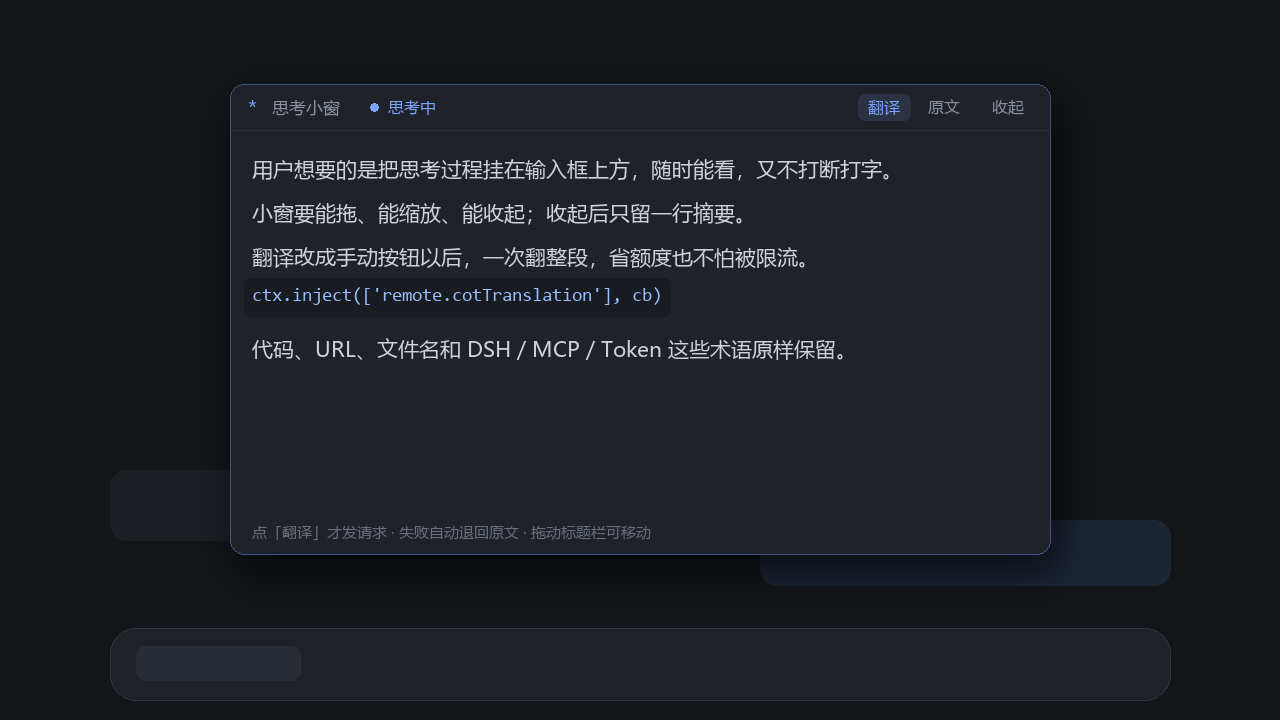
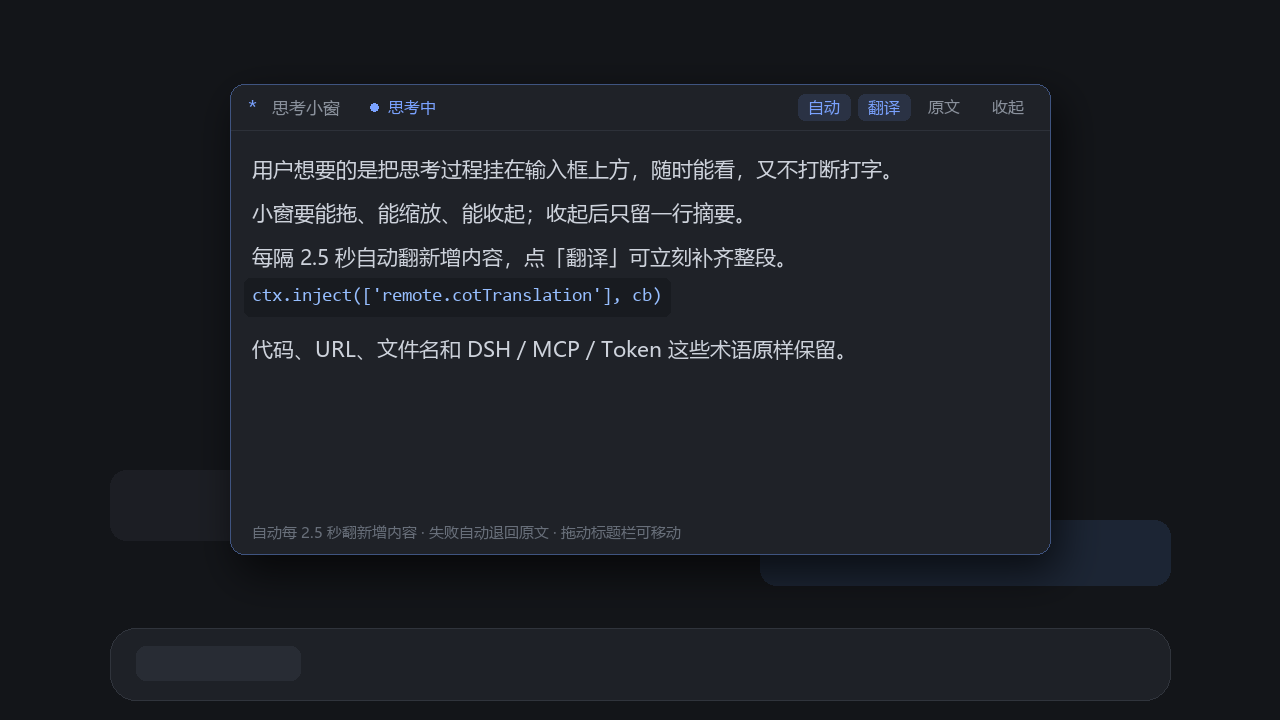
feat: 自动增量翻译（每 2.5 秒）+「自动」开关
- 默认开启：每 2.5 秒检查思考是否变长，只送新增的已完结句子，整段不重翻
- 标题栏「自动」按钮可开关，状态存 localStorage
- 手动「翻译」仍保留：点一下立刻补齐整段（含未写完的尾巴）
- 示意图更新为带「自动」按钮的版本
- 版本号 0.2.2（npm 待发；market.json 仍指向已发布的 0.2.1）

Changed region(s): [[0.1875, 0.3361, 0.625, 0.3972], [0.1875, 0.7333, 0.5312, 0.7639], [0.625, 0.1222, 0.6875, 0.1833]]

diff --git a/client.js b/client.js
@@ -25,6 +25,9 @@ window.__ModuleLoader__.load({
       translate: 'Translate',
       retranslate: 'Translate again',
       translateHint: 'Translate the reasoning shown in this window',
+      auto: 'Auto',
+      autoOn: 'Auto translation on — checks for new text every few seconds',
+      autoOff: 'Auto translation off — click to translate new text automatically',
       off_remote: 'Translation bundle not mounted',
       off_contribution: 'Translation plugin not enabled',
       off_limits: 'Translation settings unavailable',
@@ -46,6 +49,9 @@ window.__ModuleLoader__.load({
       translate: '翻译',
       retranslate: '再译',
       translateHint: '把这扇窗里的思考翻成中文',
+      auto: '自动',
+      autoOn: '自动翻译已开启：每隔几秒检查有没有新思考',
+      autoOff: '自动翻译已关闭：点击开启，新内容会自动翻',
       off_remote: '翻译服务未挂载',
       off_contribution: '翻译插件未启用',
       off_limits: '翻译设置不可用',
@@ -680,6 +686,28 @@ window.__ModuleLoader__.load({
       }
     }
 
+    // Auto mode: every AUTO_INTERVAL_MS, translate whatever finished reasoning
+    // arrived since the last pass. The tail of an unfinished sentence stays in
+    // the source language, so streaming never waits on the network.
+    const AUTO_KEY = 'dsh-cot-peek:auto';
+    const AUTO_INTERVAL_MS = 2500;
+
+    function readAuto() {
+      try {
+        return window.localStorage.getItem(AUTO_KEY) !== '0';
+      } catch (error) {
+        return true;
+      }
+    }
+
+    function writeAuto(value) {
+      try {
+        window.localStorage.setItem(AUTO_KEY, value ? '1' : '0');
+      } catch (error) {
+        /* storage may be unavailable */
+      }
+    }
+
     function oneLine(text) {
       const line = String(text).replace(/\s+/g, ' ').trim();
       return line.length > 72 ? line.slice(0, 72) + '…' : line;
@@ -702,12 +730,19 @@ window.__ModuleLoader__.load({
         failed: false,
       });
       const [translatedText, setTranslatedText] = React.useState('');
+      const [auto, setAuto] = React.useState(readAuto);
       const [notice, setNotice] = React.useState('');
       const [rect, setRect] = React.useState(readRect);
       const engine = React.useRef(null);
+      const autoState = React.useRef({ auto: true, available: false, sessionId: null, reasoning: '' });
+      const autoDone = React.useRef(0);
       const body = React.useRef(null);
       const drag = React.useRef(null);
       const resize = React.useRef(null);
+
+      // Keep the interval's view of the world fresh without restarting it on
+      // every streamed token.
+      autoState.current = { auto, available, sessionId, reasoning };
 
       // The translator bundle mounts asynchronously; the service keeps probing
       // in the background and pushes the moment it becomes usable.
@@ -720,9 +755,30 @@ window.__ModuleLoader__.load({
         return unsubscribe;
       }, [service]);
 
+      // Auto mode: translate only what finished since the previous pass.
+      React.useEffect(() => {
+        const tick = () => {
+          const current = autoState.current;
+          if (!current.auto || !current.available || current.sessionId === null) return;
+          const text = current.reasoning;
+          if (text.length <= autoDone.current) return;
+          autoDone.current = text.length;
+          if (engine.current === null) {
+            engine.current = new PeekTranslation(
+              (source, signal) => service.translate(source, current.sessionId, signal),
+              setTranslation,
+            );
+          }
+          engine.current.update(text);
+        };
+        const id = window.setInterval(tick, AUTO_INTERVAL_MS);
+        return () => window.clearInterval(id);
+      }, [service]);
+
       React.useEffect(() => {
         setTranslation({ output: '', tail: '', pending: false, failed: false });
         setTranslatedText('');
+        autoDone.current = 0;
       }, [sessionId]);
 
       React.useEffect(
@@ -853,9 +909,9 @@ window.__ModuleLoader__.load({
         : original;
       const summary = oneLine(summarySource);
 
-      // Streaming continues after a manual translate, so tell the user that the
-      // translation is one step behind instead of silently showing stale text.
-      const stale = translatedText !== '' && original.length > translatedText.length;
+      // In manual mode, streaming keeps growing after a translate, so tell the
+      // user the translation is one step behind. Auto mode catches up by itself.
+      const stale = !auto && translatedText !== '' && original.length > translatedText.length;
 
       const describeReason = () => {
         const code = typeof service.reason === 'function' ? service.reason() : 'remote';
@@ -909,8 +965,17 @@ window.__ModuleLoader__.load({
           );
         }
         setTranslatedText(text);
+        autoDone.current = text.length;
         setView('translated');
         engine.current.translateAll(text);
+      };
+
+      const toggleAuto = () => {
+        const next = !auto;
+        setAuto(next);
+        writeAuto(next);
+        // Switching back on lets the next tick pick up everything new.
+        if (next) autoDone.current = 0;
       };
 
       const translateLabel = translation.pending
@@ -966,6 +1031,20 @@ window.__ModuleLoader__.load({
               )
             : null,
           h('span', { className: 'dsh-cot-peek__spacer' }),
+          available
+            ? h(
+                'button',
+                {
+                  type: 'button',
+                  className: 'dsh-cot-peek__toggle',
+                  'data-active': auto ? 'true' : undefined,
+                  'aria-pressed': auto ? 'true' : 'false',
+                  title: auto ? t('autoOn') : t('autoOff'),
+                  onClick: toggleAuto,
+                },
+                t('auto'),
+              )
+            : null,
           original.trim() !== ''
             ? h(
                 'button',
@@ -1052,6 +1131,7 @@ window.__ModuleLoader__.load({
       '.dsh-cot-peek__toggle:hover,.dsh-cot-peek__toggle:focus-visible{background:var(--dsw-alias-interactive-bg-hover,rgba(127,127,127,.12));color:var(--dsw-alias-label-primary)}',
       '.dsh-cot-peek__toggle:focus-visible{outline:1px solid var(--dsw-alias-brand-primary);outline-offset:1px}',
       '.dsh-cot-peek__toggle[data-primary="true"]{color:var(--dsw-alias-brand-primary)}',
+      '.dsh-cot-peek__toggle[data-active="true"]{color:var(--dsw-alias-brand-primary);background:var(--dsw-alias-interactive-bg-hover,rgba(127,127,127,.12))}',
       '.dsh-cot-peek__toggle[disabled]{opacity:.55;cursor:default}',
       '.dsh-cot-peek__body{flex:1;min-height:0;overflow-y:auto;padding:0 12px 12px;white-space:pre-wrap;overflow-wrap:anywhere;color:var(--dsw-alias-label-secondary);font-size:13px;line-height:1.6}',
       '.dsh-cot-peek__body[data-view="original"]{opacity:.82}',

diff --git a/README.md b/README.md
@@ -15,27 +15,36 @@
 ## 它做什么
 
 - 从 Chat 快照里直接读当前正在流式输出的 reasoning（不额外请求、不跑二次流）
-- **手动翻译**：标题栏一个「翻译」按钮，点一下才把当前思考整段翻成中文；不点就一个请求都不发
+- **自动翻译（默认开）**：每 2.5 秒检查一次有没有新思考，有就把**新增的已完结句子**送翻，
+  整段不会重翻；标题栏「自动」按钮可随时关掉
+- **手动翻译**：标题栏的「翻译」按钮，点一下立刻把当前整段翻完（没写完的尾巴也一起送）
 - 英文思考 → 中文译文：代码块、行内代码、URL、文件名、术语先打成占位符，翻完原样还原
 - 相同片段缓存，多句串行翻译（不冲垮免费翻译接口）
 - 翻译失败自动退回原文，标题栏给出状态
-- 思考还在继续时按钮会变成「再译」，提醒您译文已经落后一截
+- 手动模式下思考继续长时按钮会变成「再译」，提醒译文已经落后一截
 - 可收起：收起后只留一行标题 + 最新一句摘要；状态记在 localStorage
 - 可切换「译文 / 原文」
 - 翻译服务不可用时，鼠标悬停标题栏的「翻译未启用」会显示具体卡在哪一步
   （服务未挂载 / 插件未启用 / 设置不可用 / 服务报错）
 
-## 为什么是手动按钮
+## 自动 / 手动两种模式
 
-自动翻译会在思考流式输出时不停地切句、发请求，一是烧额度，二是免费接口容易被限流，
-三是翻了半句话体验反而更差。手动模式：**您想看的才翻**，一次翻整段，缓存复用。
+- **自动（默认）**：每 2.5 秒看一眼思考有没有变长，变了就只翻**新增的完结句子**。
+  整段不重翻、未写完的半句留原文，所以流式输出不会被翻译卡住。
+  标题栏点「自动」可关掉，选择记在 localStorage。
+- **手动**：关掉自动后，「翻译」按钮点一次翻整段（也就是把没写完的尾巴也送出去）。
+  两者不冲突：自动开着时点「翻译」，会立刻把整段补齐，之后又回到增量模式。
+
+> 为什么自动要限频：免费接口（Bing）会被限流，逐句实时翻译又慢又容易被拒；
+> 现在 2.5 秒一收，既跟得上，也不会把请求打爆。
 
 ## 翻译管线（为什么快、为什么不会硬翻术语）
 
 1. **省**
-   - 手动触发：不点按钮不发请求；一次翻整段，未写完的尾巴也一起送（您点了就是想看）
-   - 缓存：同一句只翻一次（思考里重复很多）
+   - 增量：自动模式下只送新增的完结句子，同一句永远只翻一次
+   - 手动触发：点「翻译」才整段翻（含未写完的尾巴）
    - 串行 + 合句：短句合并到 ≥28 字符再发，减少请求数
+   - 缓存：同一句只翻一次（思考里重复很多）
 2. **准**
    - 送整句、不送碎片；合句后语义完整
 3. **不硬翻专业术语**
